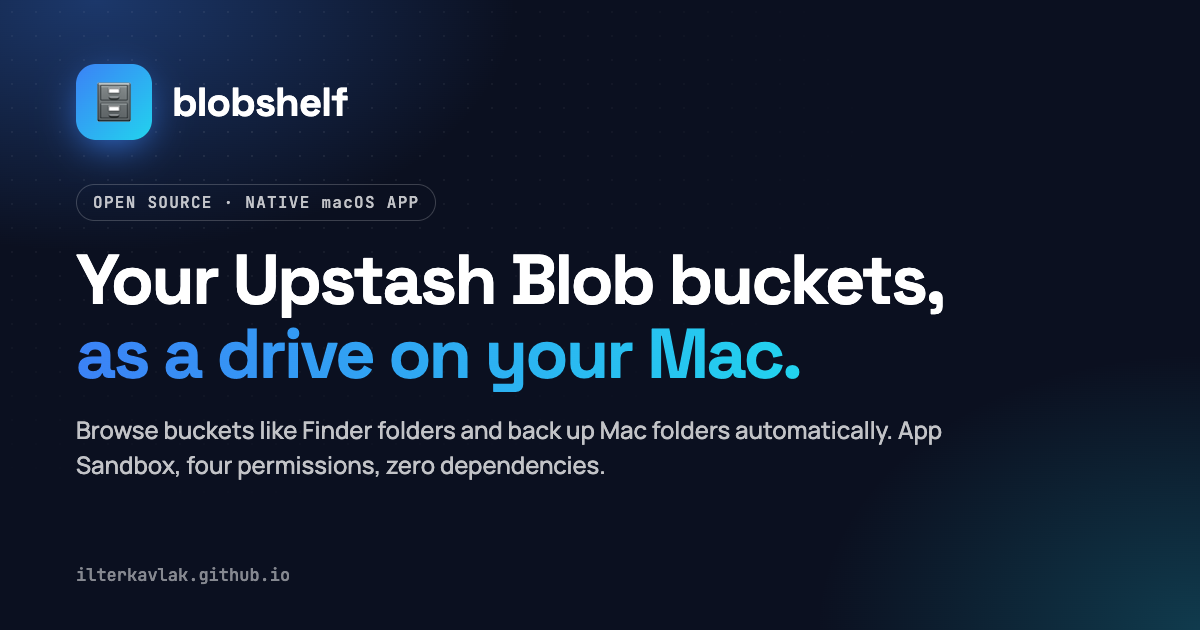
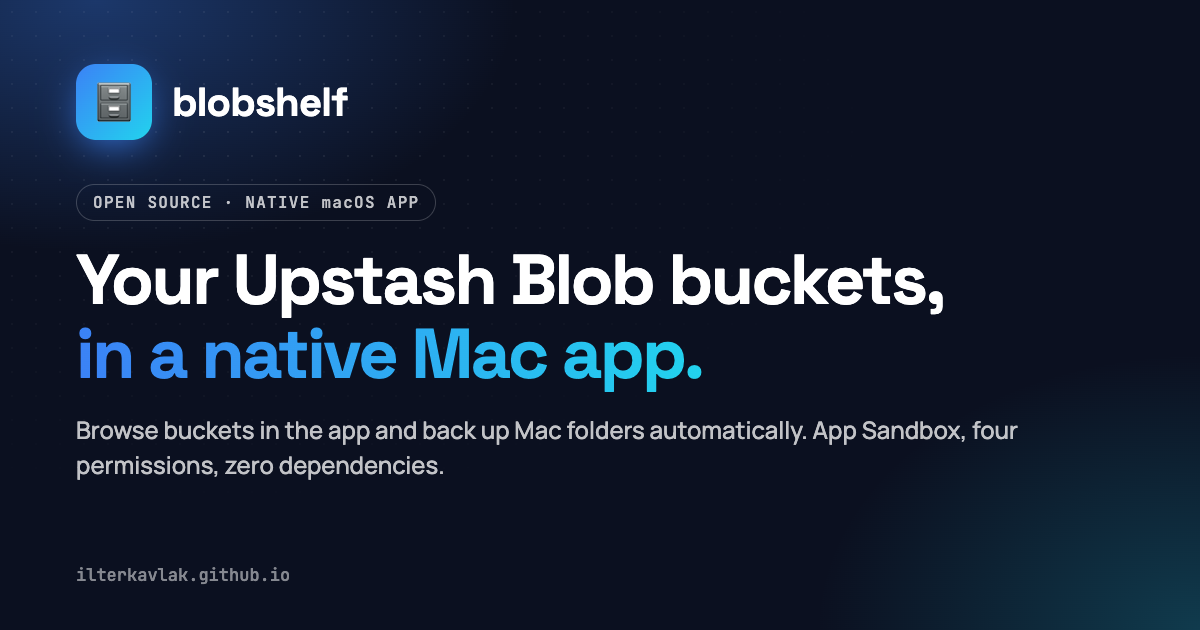
WEB-2026-11 blobshelf: describe it as a native Mac app, not a Finder drive
The headline, intro, meta tags, social preview image and project tagline
said "as a drive on your Mac" / "like folders in Finder", implying the
buckets mount in Finder. Reword everything to say it's a standalone app.

Changed region(s): [[0.0617, 0.5127, 0.6783, 0.6333], [0.0617, 0.6635, 0.8633, 0.754]]

diff --git a/projects/blobshelf/index.html b/projects/blobshelf/index.html
@@ -3,26 +3,26 @@
 <head>
   <meta charset="UTF-8" />
   <meta name="viewport" content="width=device-width, initial-scale=1.0" />
-  <title>blobshelf — Upstash Blob as a drive on your Mac · İlter Kavlak</title>
-  <meta name="description" content="Blobshelf is a small native macOS app for Upstash Blob. Browse your buckets like folders in Finder and keep folders on your Mac backed up to them automatically. App Sandbox, four permissions, no dependencies, built from source." />
+  <title>blobshelf — a native Mac app for Upstash Blob · İlter Kavlak</title>
+  <meta name="description" content="Blobshelf is a small native macOS app for Upstash Blob. Browse your buckets in its own window and keep folders on your Mac backed up to them automatically. App Sandbox, four permissions, no dependencies, built from source." />
   <meta name="theme-color" media="(prefers-color-scheme: light)" content="#fbfbfc" />
   <meta name="theme-color" media="(prefers-color-scheme: dark)" content="#0b0f15" />
 
   <!-- Open Graph -->
   <meta property="og:type" content="website" />
   <meta property="og:site_name" content="İlter Kavlak" />
-  <meta property="og:title" content="blobshelf — Upstash Blob as a drive on your Mac" />
-  <meta property="og:description" content="Browse Upstash Blob buckets like Finder folders and back up Mac folders automatically. Native, sandboxed, no dependencies." />
+  <meta property="og:title" content="blobshelf — a native Mac app for Upstash Blob" />
+  <meta property="og:description" content="Browse Upstash Blob buckets in a native Mac app and back up Mac folders automatically. Native, sandboxed, no dependencies." />
   <meta property="og:url" content="https://ilterkavlak.github.io/projects/blobshelf/" />
   <meta property="og:image" content="https://ilterkavlak.github.io/projects/blobshelf/og-image.png" />
   <meta property="og:image:type" content="image/png" />
   <meta property="og:image:width" content="1200" />
   <meta property="og:image:height" content="630" />
-  <meta property="og:image:alt" content="blobshelf — your Upstash Blob buckets as a drive on your Mac." />
+  <meta property="og:image:alt" content="blobshelf — your Upstash Blob buckets, in a native Mac app." />
 
   <meta name="twitter:card" content="summary_large_image" />
-  <meta name="twitter:title" content="blobshelf — Upstash Blob as a drive on your Mac" />
-  <meta name="twitter:description" content="Browse buckets like Finder folders, back up Mac folders automatically. Native, sandboxed, no dependencies." />
+  <meta name="twitter:title" content="blobshelf — a native Mac app for Upstash Blob" />
+  <meta name="twitter:description" content="Browse buckets in a native Mac app, back up Mac folders automatically. Native, sandboxed, no dependencies." />
   <meta name="twitter:image" content="https://ilterkavlak.github.io/projects/blobshelf/og-image.png" />
 
   <link rel="canonical" href="https://ilterkavlak.github.io/projects/blobshelf/" />
@@ -111,11 +111,12 @@
   <main id="main" class="wrap wrap-wide">
     <header class="hero">
       <p class="status"><span class="dot" aria-hidden="true"></span>Open source · native macOS app</p>
-      <h1>Your Upstash Blob buckets, as a drive on your Mac.</h1>
+      <h1>Your Upstash Blob buckets, in a native Mac app.</h1>
       <p class="tagline">
-        Blobshelf is a small native macOS app for Upstash Blob. Browse your buckets like folders in
-        Finder, and keep folders on your Mac backed up to them automatically — much like Google
-        Drive for desktop. It runs in Apple's App Sandbox with the smallest set of permissions it can
+        Blobshelf is a small native macOS app for Upstash Blob. Browse your buckets in the app's own
+        window, with folders, drag and drop and Quick Look, and keep folders on your Mac backed up to
+        them automatically. It's a standalone app: your buckets don't appear in Finder as a mounted
+        drive. It runs in Apple's App Sandbox with the smallest set of permissions it can
         work with, and you build it yourself from source.
       </p>
       <div class="contact-row">
@@ -178,7 +179,7 @@
     <section class="section" aria-labelledby="features-h">
       <div class="section-head">
         <p class="section-title">Features</p>
-        <h2 id="features-h">A Finder for your buckets, and backups that never delete.</h2>
+        <h2 id="features-h">A file browser for your buckets, and backups that never delete.</h2>
       </div>
       <div class="lp-grid">
         <div class="lp-feature"><div class="ico" aria-hidden="true">🗂</div><h3>Browse</h3><p>Any number of buckets in a list or grid: folders, upload (button or drag and drop, folders included), download, Quick Look, rename, delete, new folder, search, and copyable links for public buckets.</p></div>
@@ -277,7 +278,7 @@ cd blobshelf
     </section>
 
     <div class="lp-cta">
-      <h2>Give your buckets a home in Finder.</h2>
+      <h2>Give your buckets a home on your Mac.</h2>
       <p class="muted">Open source under MIT. Build it, read it, keep your own copies of anything important.</p>
       <div class="contact-row">
         <a class="contact-btn primary" href="https://github.com/ilterkavlak/blobshelf" target="_blank" rel="noopener">Star on GitHub</a>

diff --git a/index.html b/index.html
@@ -4,7 +4,7 @@
   <meta charset="UTF-8" />
   <meta name="viewport" content="width=device-width, initial-scale=1.0" />
   <title>İlter Kavlak — SRE / Cloud Engineer</title>
-  <meta name="description" content="İlter Kavlak — SRE / Cloud Engineer at Upstash. Kubernetes, AWS, GCP, and internal platform services, plus side projects like nitpick (parallel AI code review) and blobshelf (Upstash Blob as a drive on your Mac)." />
+  <meta name="description" content="İlter Kavlak — SRE / Cloud Engineer at Upstash. Kubernetes, AWS, GCP, and internal platform services, plus side projects like nitpick (parallel AI code review) and blobshelf (a native Mac app for Upstash Blob)." />
   <meta name="theme-color" media="(prefers-color-scheme: light)" content="#ffffff" />
   <meta name="theme-color" media="(prefers-color-scheme: dark)" content="#0d1117" />
 

diff --git a/data/projects.js b/data/projects.js
@@ -8,7 +8,7 @@ window.PROJECTS = [
     title: 'blobshelf',
     href: 'blobshelf/index.html',
     meta: '2026 · Active · Swift · macOS',
-    tagline: 'Your Upstash Blob buckets as a drive on your Mac, with automatic folder backups. Native, sandboxed, zero dependencies.',
+    tagline: 'A native Mac app for your Upstash Blob buckets, with automatic folder backups. Sandboxed, zero dependencies.',
     foot: 'Landing page →',
     icon: '🗄',
     accent: '#3b82f6'
